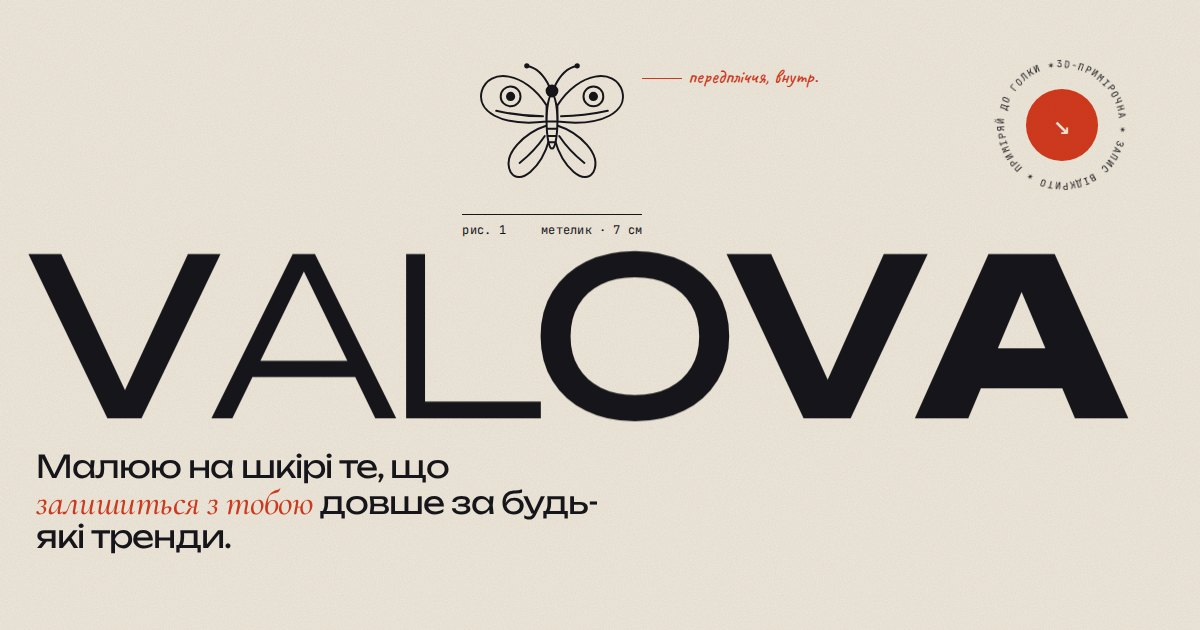
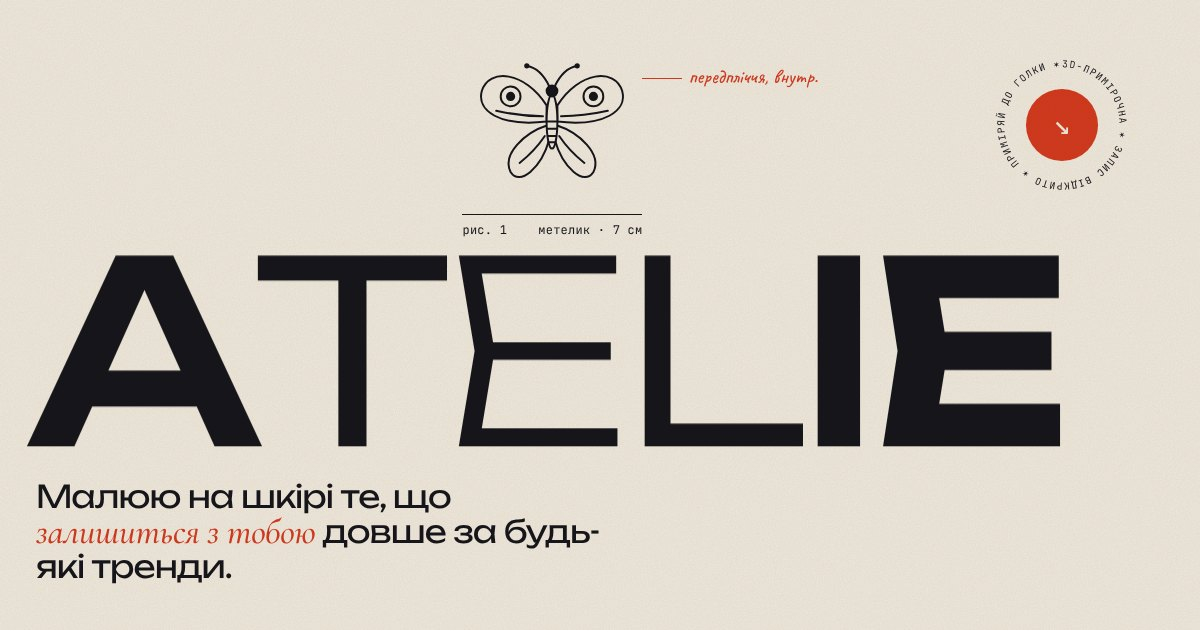
Rename the site to ATELIE and keep the name in one setting
- src/data/brand.js holds the name; it reaches the logo, hero word, page
  titles, og tags, receipt, footer and the try-on snapshot caption
- hero word fits itself to the screen width for any name length; on
  phones it wraps only at a space, so one word is never cut in half
- npm run og-image redraws public/og.jpg with the current name
- internal names (pm2 app, nginx zones, log prefix) are now neutral

Claude-Session: https://claude.ai/code/session_019N9xihsLDndYLcK9KSvLnT

diff --git a/index.html b/index.html
@@ -3,17 +3,17 @@
   <head>
     <meta charset="UTF-8" />
     <meta name="viewport" content="width=device-width, initial-scale=1" />
-    <title>VALOVA — татуювання і 3D-примірочна</title>
+    <title>%BRAND% — татуювання і 3D-примірочна</title>
     <meta name="description" content="Тату-майстриня @tattoo.by.valova. Каталог робіт, вільні ескізи і 3D-примірочна: завантаж ескіз і подивись, як він ляже на тіло." />
     <meta name="theme-color" content="#EEE8DC" />
     <!-- превью ссылки в Telegram / Instagram / мессенджерах (адрес картинки должен быть полным) -->
     <link rel="canonical" href="%SITE_URL%/" />
     <meta property="og:type" content="website" />
-    <meta property="og:site_name" content="VALOVA" />
+    <meta property="og:site_name" content="%BRAND%" />
     <meta property="og:locale" content="uk_UA" />
     <meta property="og:locale:alternate" content="en_GB" />
     <meta property="og:url" content="%SITE_URL%/" />
-    <meta property="og:title" content="VALOVA — татуювання і 3D-примірочна" />
+    <meta property="og:title" content="%BRAND% — татуювання і 3D-примірочна" />
     <meta property="og:description" content="Тату-майстриня @tattoo.by.valova. Приміряй ескіз на 3D-фігурі ще до сеансу." />
     <meta property="og:image" content="%SITE_URL%/og.jpg" />
     <meta property="og:image:width" content="1200" />
@@ -36,7 +36,7 @@
     </div>
 
     <header class="nav">
-      <a href="#top" class="nav__logo">VALOVA<sup>®</sup></a>
+      <a href="#top" class="nav__logo">%BRAND%</a>
       <nav class="nav__links mono" aria-label="Розділи" data-i18n-attr="aria-label:navLabel">
         <a href="#works" data-i18n="navWorks">Роботи</a>
         <a href="#tryon" data-i18n="navTryon">Примірочна</a>
@@ -76,8 +76,8 @@
           </a>
         </div>
 
-        <h1 class="hero__name" aria-label="Valova">
-          <span class="hero__letters" data-weight-letters>VALOVA</span>
+        <h1 class="hero__name" aria-label="%BRAND%">
+          <span class="hero__letters" data-weight-letters>%BRAND%</span>
         </h1>
 
         <div class="hero__row">
@@ -265,7 +265,7 @@
       <section class="care" aria-label="Пам’ятка з догляду" data-i18n-attr="aria-label:careLabel">
         <div class="care__slot">
           <div class="receipt mono" data-receipt>
-            <p class="receipt__title">VALOVA TATTOO</p>
+            <p class="receipt__title">%BRAND% TATTOO</p>
             <p class="receipt__center" data-i18n="careGuide">пам’ятка з догляду</p>
             <p class="receipt__dash">--------------------------------</p>
             <dl>
@@ -349,7 +349,7 @@
       <div class="footer__row mono">
         <a href="https://instagram.com/tattoo.by.valova" target="_blank" rel="noopener">instagram ↗</a>
         <span data-city></span>
-        <span>© <span data-year></span> VALOVA</span>
+        <span>© <span data-year></span> %BRAND%</span>
         <a href="#top" data-i18n="toTop">нагору ↑</a>
       </div>
     </footer>

diff --git a/src/ui/hero.js b/src/ui/hero.js
@@ -1,15 +1,18 @@
 // Буквы имени «набухают» рядом с курсором — вариативная жирность Unbounded (200–900).
 export function weightLetters(el) {
-  const text = el.textContent.trim();
+  const text = el.textContent.trim().replace(/\s+/g, ' ');
   el.textContent = '';
-  const half = Math.ceil(text.length / 2);
+  // на телефоне имя из нескольких слов переносится по пробелу (ближайшему к середине) —
+  // так оно крупнее; одно слово остаётся в строку, чтобы не резать его пополам
+  const spaces = [...text].flatMap((ch, i) => (ch === ' ' ? [i] : []));
+  const cut = spaces.sort((a, b) => Math.abs(a - text.length / 2) - Math.abs(b - text.length / 2))[0] ?? -1;
   const letters = [...text].map((ch, i) => {
-    // на телефоне имя переносится на две строки — так оно крупнее
-    if (i === half) el.insertAdjacentHTML('beforeend', '<i class="hero__br" aria-hidden="true"></i>');
     const s = document.createElement('span');
-    s.textContent = ch;
+    s.textContent = ch === ' ' ? '\u00a0' : ch;
     s.setAttribute('aria-hidden', 'true');
+    if (i === cut) s.className = 'hero__sp';
     el.appendChild(s);
+    if (i === cut) el.insertAdjacentHTML('beforeend', '<i class="hero__br" aria-hidden="true"></i>');
     return { el: s, w: 560, target: 560 };
   });
 
@@ -64,4 +67,32 @@ export function clock(el, tz, city, locale) {
   const draw = () => (el.textContent = `${city} ${fmt.format(new Date())}`);
   draw();
   setInterval(draw, 20_000);
+}
+
+// Название растягивается на ширину строки при любой длине (src/data/brand.js).
+// Меряем при самом жирном начертании, до которого доходит анимация (900), —
+// так буквы никогда не вылезут за край экрана.
+export function fitName(el, maxPx = 380) {
+  const h1 = el.parentElement;
+  const spans = [...el.querySelectorAll('span')];
+  const br = el.querySelector('.hero__br');
+  const fit = () => {
+    const prev = spans.map((s) => s.style.fontVariationSettings);
+    h1.style.fontSize = '100px';
+    spans.forEach((s) => (s.style.fontVariationSettings = "'wght' 900"));
+    // на телефоне название в две строки — равняемся на самую длинную
+    const cut = br && getComputedStyle(br).display !== 'none' ? spans.indexOf(br.nextElementSibling) : -1;
+    const lines = cut > 0 ? [spans.slice(0, cut), spans.slice(cut)] : [spans];
+    const widest = Math.max(...lines.map((l) => l.reduce((w, s) => w + s.getBoundingClientRect().width, 0)));
+    const size = Math.min(maxPx, (100 * h1.getBoundingClientRect().width * 0.99) / widest);
+    spans.forEach((s, i) => (s.style.fontVariationSettings = prev[i]));
+    h1.style.fontSize = `${size.toFixed(1)}px`;
+  };
+  fit();
+  document.fonts.ready.then(fit);
+  let raf = 0;
+  addEventListener('resize', () => {
+    cancelAnimationFrame(raf);
+    raf = requestAnimationFrame(fit);
+  });
 }

diff --git a/tryon.html b/tryon.html
@@ -3,17 +3,17 @@
   <head>
     <meta charset="UTF-8" />
     <meta name="viewport" content="width=device-width, initial-scale=1, viewport-fit=cover" />
-    <title>3D-примірочна — VALOVA</title>
+    <title>3D-примірочна — %BRAND%</title>
     <meta name="description" content="Завантаж ескіз і приміряй татуювання на 3D-фігурі." />
     <meta name="theme-color" content="#EEE8DC" />
     <!-- превью ссылки в Telegram / Instagram / мессенджерах (адрес картинки должен быть полным) -->
     <link rel="canonical" href="%SITE_URL%/tryon.html" />
     <meta property="og:type" content="website" />
-    <meta property="og:site_name" content="VALOVA" />
+    <meta property="og:site_name" content="%BRAND%" />
     <meta property="og:locale" content="uk_UA" />
     <meta property="og:locale:alternate" content="en_GB" />
     <meta property="og:url" content="%SITE_URL%/tryon.html" />
-    <meta property="og:title" content="3D-примірочна — VALOVA" />
+    <meta property="og:title" content="3D-примірочна — %BRAND%" />
     <meta property="og:description" content="Завантаж ескіз і приміряй татуювання на 3D-фігурі." />
     <meta property="og:image" content="%SITE_URL%/og.jpg" />
     <meta property="og:image:width" content="1200" />
@@ -25,7 +25,7 @@
   </head>
   <body class="tp">
     <header class="tp__bar">
-      <a class="tp__back mono" href="./" data-home><span aria-hidden="true">←</span> VALOVA</a>
+      <a class="tp__back mono" href="./" data-home><span aria-hidden="true">←</span> %BRAND%</a>
       <span class="tp__title mono" data-i18n="tpTitle">3D-примірочна</span>
       <div class="lang mono" role="group" aria-label="Мова" data-i18n-attr="aria-label:langLabel">
         <button type="button" data-lang="uk" lang="uk">UA</button>

diff --git a/vite.config.js b/vite.config.js
@@ -1,6 +1,7 @@
 import { resolve } from 'node:path';
 import { defineConfig, loadEnv } from 'vite';
 import { viteSingleFile } from 'vite-plugin-singlefile';
+import { BRAND } from './src/data/brand.js';
 
 // Политика безопасности контента (дублирует заголовок сервера — нужна для статических
 // хостингов вроде GitHub Pages, где заголовки не настроить): скрипты, стили, шрифты
@@ -52,8 +53,15 @@ export default defineConfig(({ mode }) => {
   return {
     base: './',
     plugins: [
-      // %SITE_URL% в index.html / tryon.html → адрес сайта из .env (VITE_SITE_URL)
-      { name: 'site-url', transformIndexHtml: { order: 'pre', handler: (html) => html.replaceAll('%SITE_URL%', siteUrl) } },
+      // в index.html / tryon.html: %SITE_URL% → адрес сайта из .env (VITE_SITE_URL),
+      // %BRAND% → название из src/data/brand.js
+      {
+        name: 'site-vars',
+        transformIndexHtml: {
+          order: 'pre',
+          handler: (html) => html.replaceAll('%SITE_URL%', siteUrl).replaceAll('%BRAND%', BRAND),
+        },
+      },
       ...(single ? [viteSingleFile()] : [siteFiles(siteUrl)]),
     ],
     build: {

diff --git a/src/styles/main.css b/src/styles/main.css
@@ -186,9 +186,6 @@ button {
   text-decoration: none;
   letter-spacing: -0.02em;
 }
-.nav__logo sup {
-  font-size: 8px;
-}
 .nav__links {
   display: flex;
   gap: 18px;
@@ -271,7 +268,7 @@ button {
   font-weight: 800;
   font-size: min(calc((100vw - 2 * var(--gutter)) / 5.15), 380px);
   line-height: 0.8;
-  letter-spacing: -0.06em;
+  letter-spacing: -0.035em;
   margin-left: -0.04em;
   white-space: nowrap;
 }
@@ -337,7 +334,7 @@ button {
 }
 
 /* «рис. 1» и штамп стоят в общем потоке над именем: на невысоком экране
-   hero просто становится выше, а не наезжает на VALOVA */
+   hero просто становится выше, а не наезжает на название */
 .hero__top {
   display: flex;
   justify-content: space-between;
@@ -1447,6 +1444,9 @@ input[type='range']::-moz-range-thumb {
     display: block;
     flex-basis: 100%;
     height: 0;
+  }
+  .hero__sp {
+    display: none !important;
   }
   .hero__row {
     grid-template-columns: 1fr;

diff --git a/src/main.js b/src/main.js
@@ -13,7 +13,7 @@ import Lenis from 'lenis';
 import { translatePage, bindLangSwitch, L, lang } from './i18n.js';
 import { site, works } from './data/site.js';
 import { inkTrail } from './ui/ink-trail.js';
-import { weightLetters, clock } from './ui/hero.js';
+import { weightLetters, fitName, clock } from './ui/hero.js';
 import { gallery, flashSheet, pills, plate } from './ui/gallery.js';
 import { flash, svgToUrl } from './data/flash.js';
 import { tryOnUI } from './ui/tryon-ui.js';
@@ -46,6 +46,7 @@ clock($('[data-clock]'), site.timezone, L(site.city), lang === 'uk' ? 'uk-UA' : 
 // ——— модули ———
 inkTrail($('.ink-trail'));
 const letters = weightLetters($('[data-weight-letters]'));
+fitName($('[data-weight-letters]'));
 pills($('.manifest'));
 plate($('[data-plate]'));
 const cards = gallery({ grid: $('[data-works]'), filter: $('[data-filter]'), works, lightbox: $('[data-lightbox]') });

diff --git a/src/i18n.js b/src/i18n.js
@@ -1,6 +1,7 @@
 // Языки сайта: украинский — основной, английский — по переключателю.
 // Выбор берётся из ?lang=en|uk, затем из localStorage, иначе — украинский.
 import { pageEn } from './i18n-page-en.js';
+import { BRAND } from './data/brand.js';
 
 const LANGS = ['uk', 'en'];
 
@@ -74,7 +75,7 @@ const S = {
   skinEbony: { uk: 'Ебоні', en: 'Ebony' },
   shotDefault: { uk: 'примірка', en: 'try-on' },
   shotNote: { uk: 'приміряно на сайті ↗', en: 'tried on at the site ↗' },
-  shotFile: { uk: 'valova-prymirka.jpg', en: 'valova-try-on.jpg' },
+  shotFile: { uk: `${BRAND.toLowerCase()}-prymirka.jpg`, en: `${BRAND.toLowerCase()}-try-on.jpg` },
 };
 
 export const t = (key, vars = {}) => (L(S[key]) ?? key).replace(/\{(\w+)\}/g, (_, k) => vars[k] ?? '');

diff --git a/src/data/site.js b/src/data/site.js
@@ -1,9 +1,11 @@
 // Тексты-«заглушки», которые нужно заменить на реальные данные мастера.
 // Поля вида { uk, en } — на двух языках (украинский основной).
+import { BRAND } from './brand.js';
+
 export const site = {
-  name: 'VALOVA',
+  name: BRAND, // само название — в src/data/brand.js
   instagram: 'tattoo.by.valova',
-  telegram: '', // например 'valova_tattoo' — появится кнопка Telegram
+  telegram: '', // ник в Telegram без @, например 'my_tattoo' — появится кнопка Telegram
   city: { uk: 'Місто', en: 'City' },
   studio: { uk: 'Студія · адреса за записом', en: 'Studio · address on booking' },
   timezone: 'Europe/Kyiv',

diff --git a/src/data/brand.js b/src/data/brand.js
@@ -1,0 +1,7 @@
+// Название сайта — меняется ЗДЕСЬ и только здесь.
+// Подставляется в логотип, большое слово на первом экране, заголовки вкладок,
+// превью ссылок, чек-памятку, подвал и подпись на снимке из примерочной.
+// Длина любая: слово на первом экране само подстраивается под ширину экрана.
+// Если в названии есть пробел, на телефоне оно переносится по нему в две строки.
+// После смены перегенерируй картинку-превью ссылки: npm run og-image (см. README).
+export const BRAND = 'ATELIE';

diff --git a/src/i18n-page-en.js b/src/i18n-page-en.js
@@ -1,10 +1,12 @@
+import { BRAND } from './data/brand.js';
+
 // Английский текст страницы. Украинский (основной) написан прямо в index.html;
 // ключи совпадают с атрибутами data-i18n / data-i18n-attr.
 export const pageEn = {
-  title: 'VALOVA — tattoos and 3D try-on',
+  title: `${BRAND} — tattoos and 3D try-on`,
   description:
     'Tattoo artist @tattoo.by.valova. Portfolio, available flash and a 3D try-on: upload a sketch and see how it sits on the body.',
-  titleTryon: '3D try-on — VALOVA',
+  titleTryon: `3D try-on — ${BRAND}`,
   descTryon: 'Upload a sketch and try the tattoo on a 3D figure.',
   tpTitle: '3D try-on',
   tpHint: 'tap the figure — the tattoo moves there',

diff --git a/src/tryon/scene.js b/src/tryon/scene.js
@@ -6,6 +6,7 @@ import { computeBoundsTree, disposeBoundsTree, acceleratedRaycast } from 'three-
 import { inkify, loadImage } from './ink.js';
 import { loadBody } from './body.js';
 import { t as tr } from '../i18n.js';
+import { BRAND } from '../data/brand.js';
 import bodyUrl from './body.bin?url';
 
 export const SKINS = [
@@ -687,7 +688,7 @@ export class TryOn {
     ctx.drawImage(src, 0, 0, W, H);
     ctx.fillStyle = '#16151B';
     ctx.font = '700 44px "Unbounded Variable", sans-serif';
-    ctx.fillText('VALOVA', 48, H + 70);
+    ctx.fillText(BRAND, 48, H + 70);
     ctx.font = '22px "JetBrains Mono", monospace';
     const t = this.selected;
     ctx.textAlign = 'right';

diff --git a/public/404.html b/public/404.html
@@ -4,7 +4,7 @@
     <meta charset="UTF-8" />
     <meta name="viewport" content="width=device-width, initial-scale=1" />
     <meta name="robots" content="noindex" />
-    <title>404 — VALOVA</title>
+    <title>404 — сторінку не знайдено</title>
     <link rel="icon" href="/favicon.svg" type="image/svg+xml" />
     <style>
       :root {
